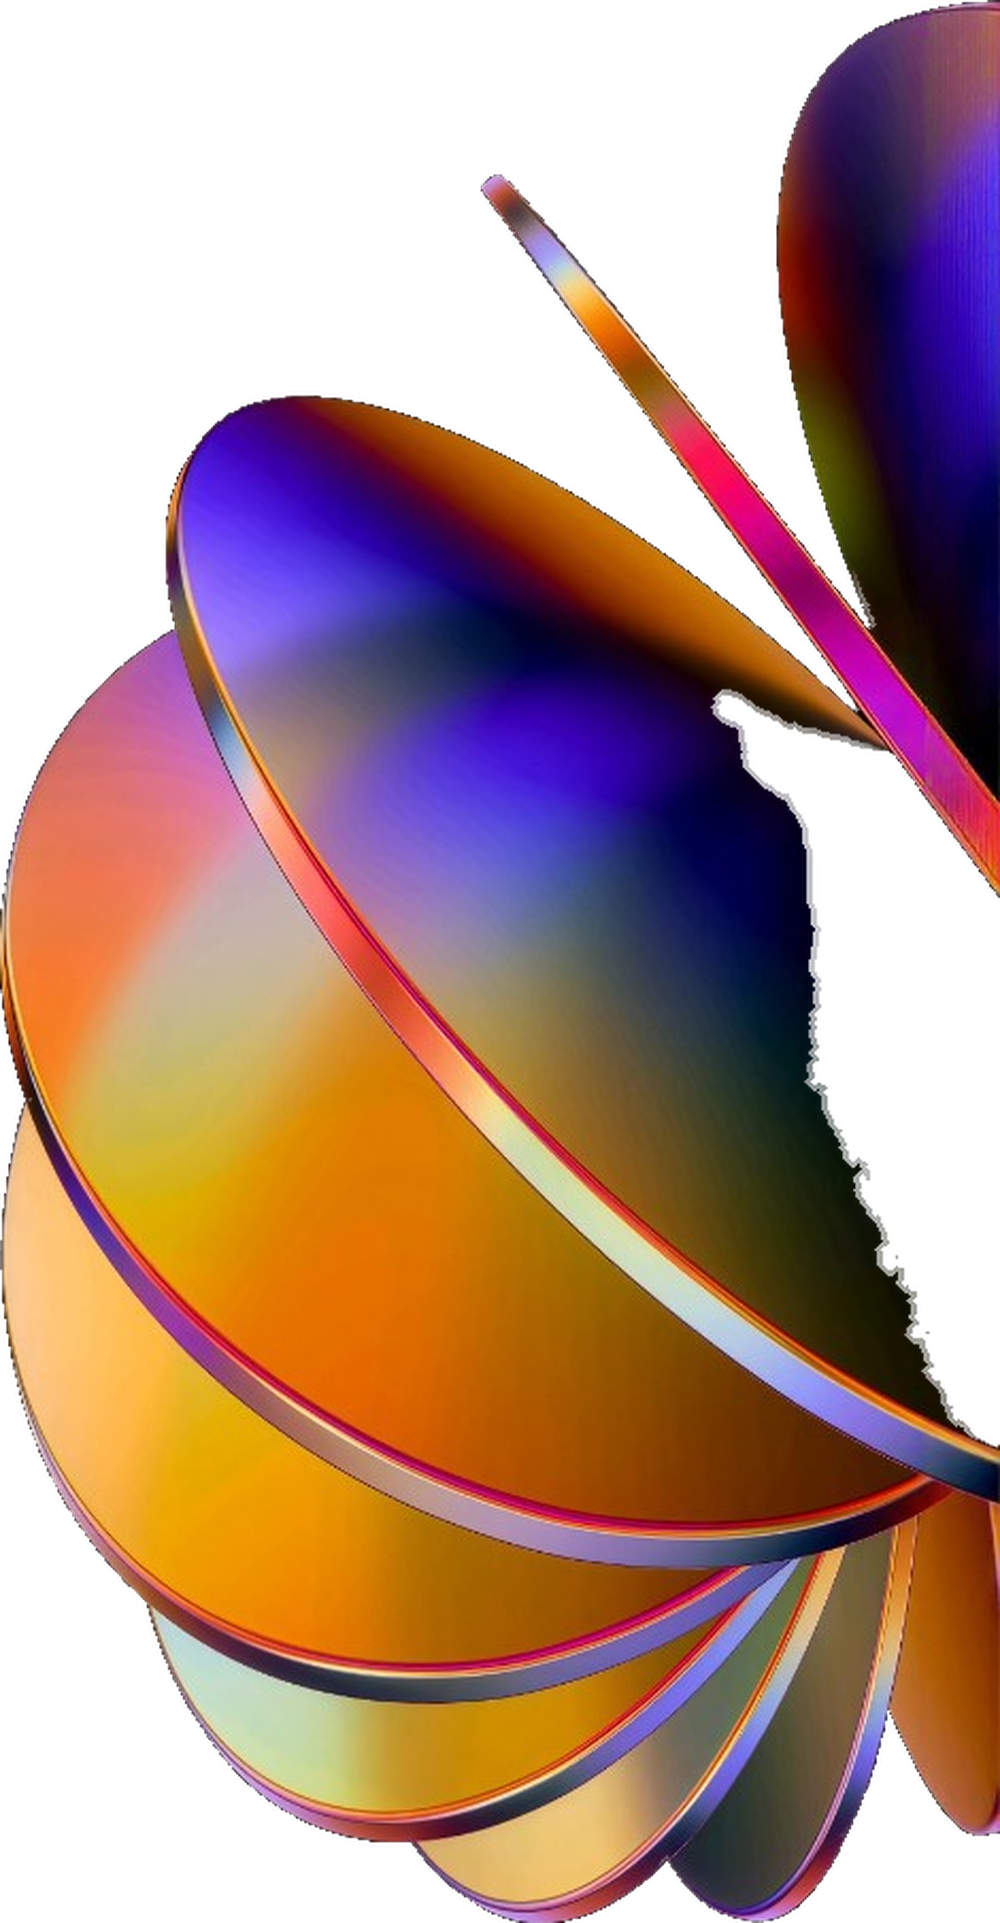
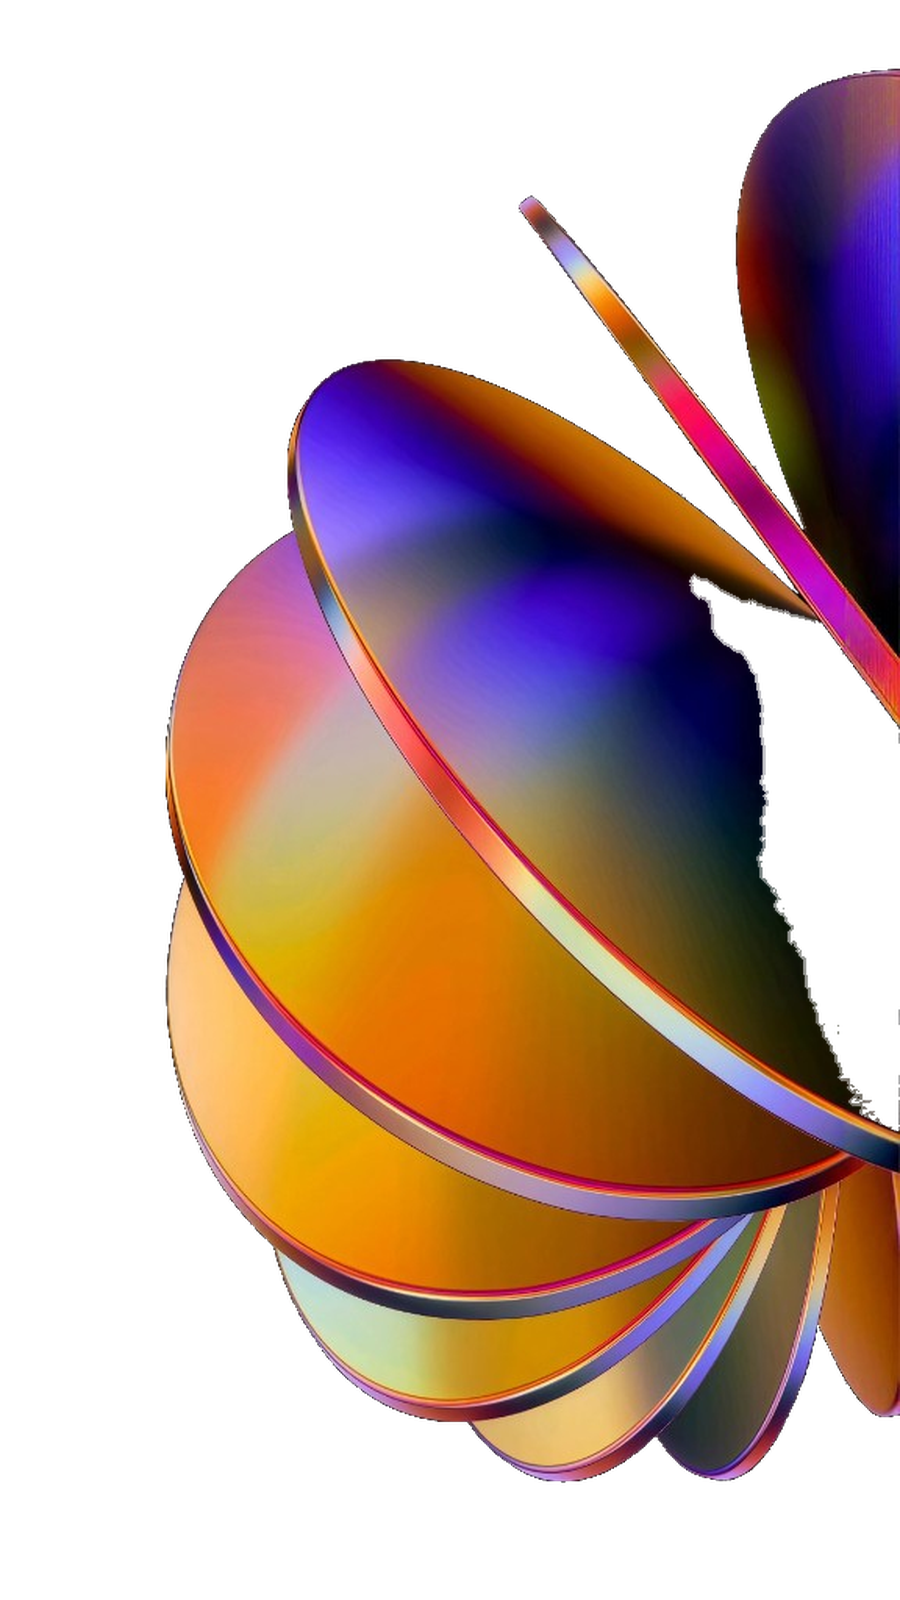
Replace right hero art with full-aspect PNG and shift it further off-edge.

diff --git a/src/hero.css b/src/hero.css
@@ -411,14 +411,19 @@
   top: 48%;
   right: 0;
   left: auto;
-  /* Keep more of the graphic clipped by the right edge so it emerges from the side */
-  transform: translate(48%, -50%);
-  width: min(52vw, 580px);
-  height: min(92vh, 880px);
+  /* Shift further right so the page edge hides more of the graphic */
+  transform: translate(58%, -50%);
+  width: min(36vw, 420px);
+  height: auto;
+  aspect-ratio: 900 / 1600;
 }
 
 .hero-art--right img {
+  width: 100%;
+  height: 100%;
+  object-fit: contain;
   object-position: left center;
+  aspect-ratio: 900 / 1600;
   filter:
     contrast(1.05)
     saturate(1.12)
@@ -505,10 +510,11 @@
   }
 
   .hero-art--right {
-    width: min(56vw, 500px);
-    height: min(86vh, 760px);
+    width: min(40vw, 360px);
+    height: auto;
+    aspect-ratio: 900 / 1600;
     right: 0;
-    transform: translate(50%, -50%);
+    transform: translate(60%, -50%);
   }
 
   .hero-art--left {
@@ -565,9 +571,10 @@
     top: 62%;
     right: 0;
     left: auto;
-    width: min(70vw, 280px);
-    height: min(70vh, 420px);
-    transform: translate(48%, -50%);
+    width: min(48vw, 220px);
+    height: auto;
+    aspect-ratio: 900 / 1600;
+    transform: translate(55%, -50%);
     opacity: 0.92;
   }
 

diff --git a/index.html b/index.html
@@ -10,7 +10,7 @@
   <title>SeeGrowth – See Growth. Scale Smart. Grow Global.</title>
   <link rel="preload" as="image" href="/assets/seegrowth-loader.png" type="image/png" fetchpriority="high" />
   <link rel="preload" as="image" href="/assets/hero-person-hd.png" type="image/png" fetchpriority="high" />
-  <link rel="preload" as="image" href="/assets/hero-glass-fan.webp" type="image/webp" />
+  <link rel="preload" as="image" href="/assets/hero-glass-fan.png?v=3" type="image/png" />
   <link rel="preload" as="image" href="/assets/hero-glass-rings.webp" type="image/webp" />
   <link rel="preload" as="image" href="/assets/hero-bg.webp" type="image/webp" />
   <link href="https://fonts.googleapis.com/css2?family=Poppins:wght@400;500;600;700;800&display=swap" rel="stylesheet" />

diff --git a/src/Hero.jsx b/src/Hero.jsx
@@ -13,9 +13,9 @@ const HERO = {
     height: 1224,
   },
   rightArt: {
-    src: '/assets/hero-glass-fan.webp?v=2',
-    width: 1000,
-    height: 1923,
+    src: '/assets/hero-glass-fan.png?v=3',
+    width: 900,
+    height: 1600,
   },
 };
 
